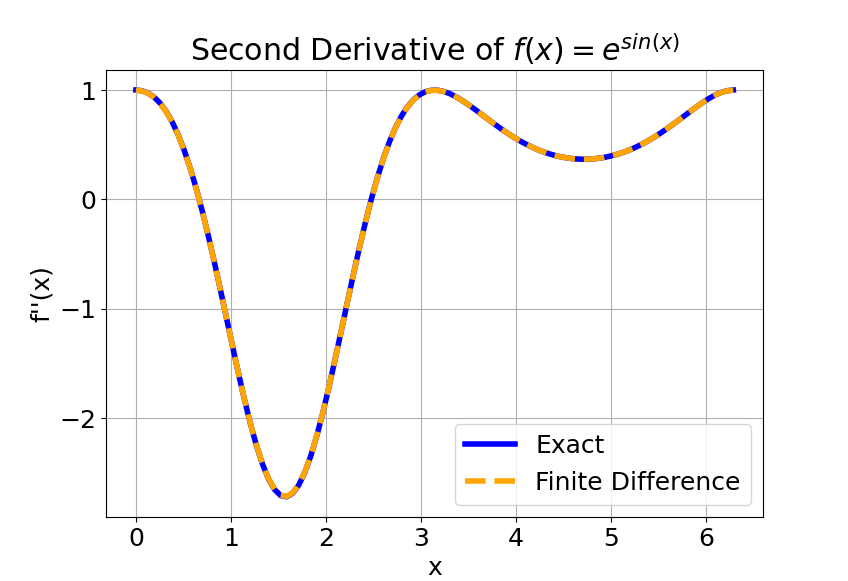
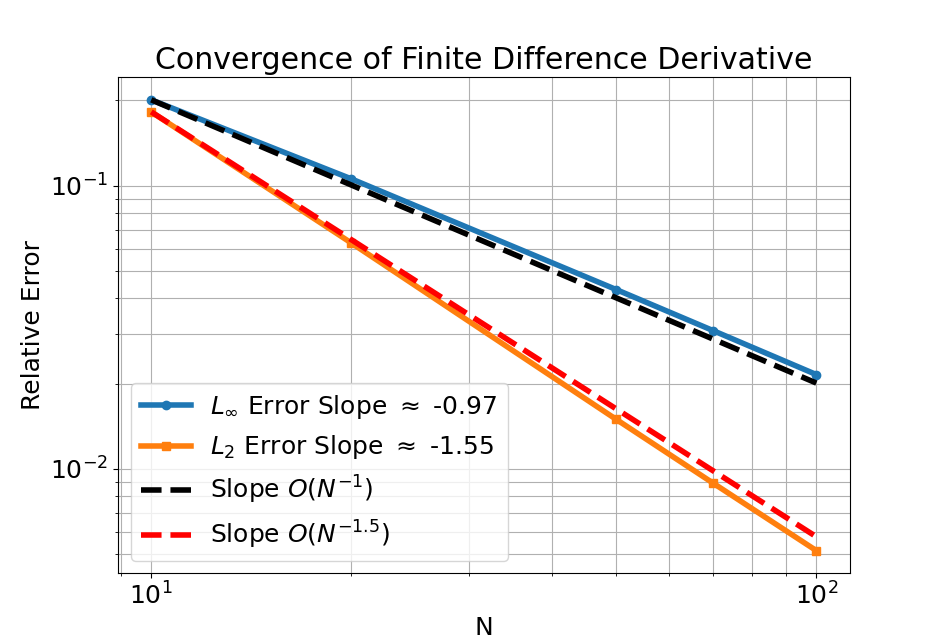
New additions...

diff --git a/code/PoissonEquationSolve.py b/code/PoissonEquationSolve.py
@@ -1,0 +1,91 @@
+import numpy as np
+import scipy.sparse as sp
+import scipy.sparse.linalg as spla
+import matplotlib.pyplot as plt
+
+plt.rcParams.update({'font.size': 18})
+def idx(i, j, Ny):
+    return i * Ny + j
+
+def solve_poisson_2d(a, b, c, d, Nx, Ny, f_fn, u_exact):
+    dx = (b - a) / Nx
+    dy = (d - c) / Ny
+    x = np.linspace(a, b, Nx + 1)
+    y = np.linspace(c, d, Ny + 1)
+    nx, ny = Nx + 1, Ny + 1
+    X, Y = np.meshgrid(x, y, indexing='ij')
+
+    Dx = sp.diags([-1, 2, -1], [-1, 0, 1], shape=(nx, nx)) / dx**2
+    Dy = sp.diags([-1, 2, -1], [-1, 0, 1], shape=(ny, ny)) / dy**2
+
+    I_x = sp.eye(nx)
+    I_y = sp.eye(ny)
+    L = sp.kron(Dx, I_y) + sp.kron(I_x, Dy)
+    L = L.tolil() 
+
+    F = -f_fn(X, Y).flatten()
+
+    for i in range(nx):
+        for j in range(ny):
+            k = idx(i, j, ny)
+            if i == 0 or i == nx - 1 or j == 0 or j == ny - 1:
+                L[k, :] = 0.0
+                L[k, k] = 1.0
+                F[k] = u_exact(x[i], y[j])
+
+    L = L.tocsr()
+    phi = spla.spsolve(L, F)
+    return phi.reshape((nx, ny)), X, Y
+
+a, b = 0.0, 5.0
+c, d = 0.0, 5.0
+u_fn = lambda x, y: np.sin(x) * np.cos(y)
+f_fn = lambda x, y: -2.0 * np.sin(x) * np.cos(y)
+
+errInf, errL2 = [], []
+
+NxVals = np.array([10, 15, 20, 35, 40, 50, 70, 100])
+NyVals = NxVals.copy()
+
+phi_last, X_last, Y_last = None, None, None
+
+for Nx, Ny in zip(NxVals, NyVals):
+    phi, X, Y = solve_poisson_2d(a, b, c, d, Nx, Ny, f_fn, u_fn)
+    u_exact = u_fn(X, Y)
+
+    errInf.append(np.max(np.abs(u_exact - phi)) / np.max(np.abs(u_exact)))
+    errL2.append(np.linalg.norm(u_exact - phi) / np.linalg.norm(u_exact))
+
+    phi_last, X_last, Y_last = phi, X, Y 
+errInf = np.array(errInf)
+errL2 = np.array(errL2)
+
+fig1 = plt.figure(figsize=(8, 6))
+ax1 = fig1.add_subplot(projection='3d')
+surf = ax1.plot_surface(X_last, Y_last, phi_last, cmap='viridis',
+                         edgecolor='none', antialiased=True)
+fig1.colorbar(surf, ax=ax1, shrink=0.6, pad=0.08, label='u(x,y)')
+ax1.set_xlabel('x')
+ax1.set_ylabel('y')
+ax1.set_zlabel('u(x,y)')
+ax1.set_title('Numerical Solution to Poisson Equation')
+plt.tight_layout()
+plt.show()
+
+slope_inf = np.polyfit(np.log(NxVals), np.log(errInf), 1)[0]
+slope_l2 = np.polyfit(np.log(NxVals), np.log(errL2), 1)[0]
+
+fig2, ax2 = plt.subplots(figsize=(7, 5))
+ax2.loglog(NxVals, errInf, 'o-', color='blue', linewidth=3, markersize=8,
+           label=r'$L_\infty$ Error Slope $\approx$ %0.2f' % slope_inf)
+ax2.loglog(NxVals, errL2, 's-', color='orange', linewidth=3, markersize=8,
+           label=r'$L_2$ Error Slope $\approx$ %0.2f' % slope_l2)
+ax2.loglog(NxVals, errInf[0] * (NxVals / NxVals[0]) ** (-2.0), '--', color='black',
+           linewidth=2.5, label=r'Slope $O(N^{-2})$')
+ax2.grid(True, which='both')
+ax2.set_xlabel('N')
+ax2.set_ylabel('Relative Error')
+ax2.set_title('Convergence of 2D Poisson Numerical Solution')
+ax2.legend(loc='lower left')
+plt.tight_layout()
+plt.show()

diff --git a/code/SecondOrderFiniteDifferenceMethod.py b/code/SecondOrderFiniteDifferenceMethod.py
@@ -96,10 +96,10 @@ plt.legend()
 plt.grid(True)
 
 plt.figure()
-plt.loglog(nvals, errInf, 'o-', linewidth=4, label=r'$L_\infty$ Error')
-plt.loglog(nvals, errL2, 's-', linewidth=4, label=r'$L_2$ Error Slope')
-plt.loglog(nvals, errInf[0] * (nvals / nvals[0]) ** (-1.0), 'k--', linewidth=4, label='Slope -1')
-plt.loglog(nvals, errL2[0] * (nvals / nvals[0]) ** (-1.5), 'r--', linewidth=4, label='Slope -3/2')
+plt.loglog(nvals, errInf, 'o-', linewidth=4, label=r'$L_\infty$ Error Slope $\approx$ %0.2f' % np.polyfit(np.log(nvals), np.log(errInf), 1)[0])
+plt.loglog(nvals, errL2, 's-', linewidth=4, label=r'$L_2$ Error Slope $\approx$ %0.2f' % np.polyfit(np.log(nvals), np.log(errL2), 1)[0])
+plt.loglog(nvals, errInf[0] * (nvals / nvals[0]) ** (-1.0), 'k--', linewidth=4, label='Slope $O(N^{-1}$)')
+plt.loglog(nvals, errL2[0] * (nvals / nvals[0]) ** (-1.5), 'r--', linewidth=4, label='Slope $O(N^{-1.5})$')
 plt.grid(True, which='both')
 plt.xlabel('N')
 plt.ylabel('Relative Error')
@@ -132,8 +132,9 @@ plt.legend()
 plt.grid(True)
 
 plt.figure()
-plt.loglog(nvals2, errInf2, 'o-', linewidth=4, label=r'$L_\infty$ Error')
-plt.loglog(nvals2, errL22, 's-', linewidth=4, label=r'$L_2$ Error Slope')
+plt.loglog(nvals2, errInf2, 'o-', linewidth=4, label=r'$L_\infty$ Error Slope $\approx$ %0.2f' % np.polyfit(np.log(nvals2), np.log(errInf2), 1)[0])
+plt.loglog(nvals2, errL22, 's-', linewidth=4, label=r'$L_2$ Error Slope $\approx$ %0.2f' % np.polyfit(np.log(nvals2), np.log(errL22), 1)[0])
+plt.loglog(nvals2, errInf2[0] * (nvals2 / nvals2[0]) ** (-2.0), 'k--', linewidth=4, label='Slope $O(N^{-2}$)')
 plt.grid(True, which='both')
 plt.xlabel('N')
 plt.ylabel('Relative Error')

diff --git a/code/SecondOrderSolveODE.py b/code/SecondOrderSolveODE.py
@@ -2,6 +2,8 @@ import numpy as np
 import scipy.sparse as sp
 import matplotlib.pyplot as plt
 
+plt.rcParams.update({'font.size': 18})
+
 def solve_ode(x0, xn, n, u_fn, f_fn):
     x = np.linspace(x0, xn, n+1)
     h = x[1] - x[0]
@@ -51,11 +53,22 @@ for k, N in enumerate(nvals):
     errL2[k] = np.linalg.norm(u_exact - u_num) / np.linalg.norm(u_exact)
 
 plt.figure()
-plt.plot(x, u_exact, 'b', linewidth=3, label='Exact')
-plt.plot(x, u_num, 'r--', linewidth=3, color='orange', label='Finite Difference')
+plt.plot(x, u_exact, 'b', linewidth=4, label='Exact')
+plt.plot(x, u_num, 'r--', linewidth=4, color='orange', label='Finite Difference')
 plt.xlabel('x')
 plt.ylabel('u(x)')
 plt.title("Solution of $u'' + sin(x)u' + u = f(x)$")
 plt.legend()
 plt.grid(True)
+plt.show()
+
+plt.figure()
+plt.loglog(nvals, errInf, 'o-', linewidth=4, label=r'$L_\infty$ Error Slope $\approx$ %0.2f' % np.polyfit(np.log(nvals), np.log(errInf), 1)[0])
+plt.loglog(nvals, errL2, 's-', linewidth=4, label=r'$L_2$ Error Slope $\approx$ %0.2f' % np.polyfit(np.log(nvals), np.log(errL2), 1)[0])
+plt.loglog(nvals, errInf[0] * (nvals / nvals[0]) ** (-2.0), 'k--', linewidth=4, label='Slope $O(N^{-2}$)')
+plt.grid(True, which='both')
+plt.xlabel('N')
+plt.ylabel('Relative Error')
+plt.legend(loc='lower left')
+plt.title('Convergence of Finite Difference Derivative')
 plt.show()
